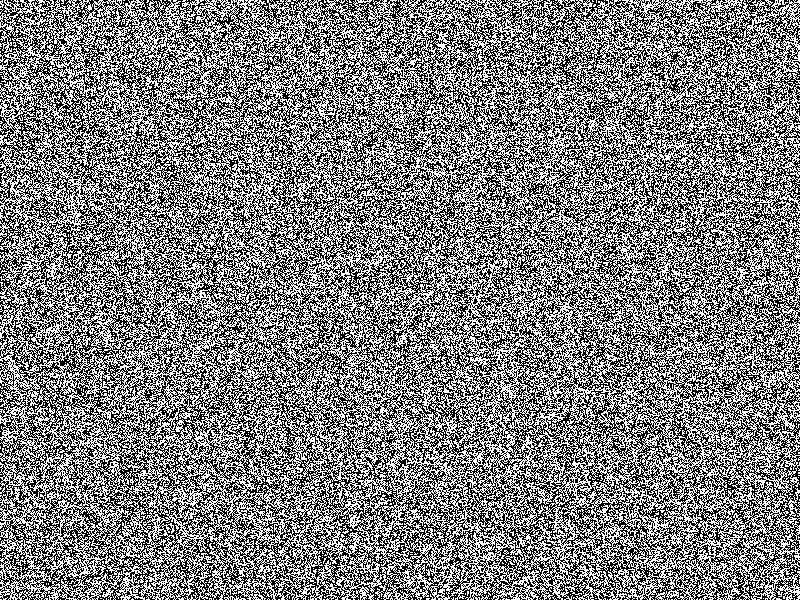
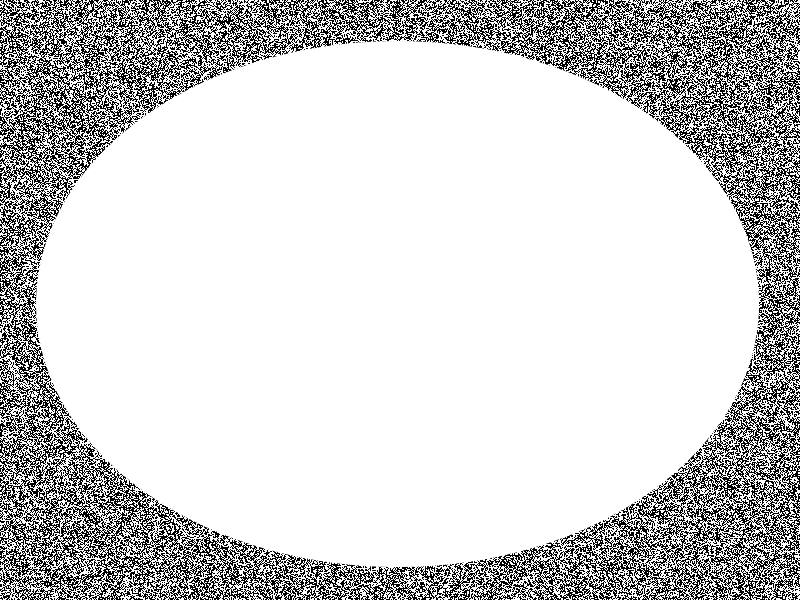
The static is a circle around the screen now

diff --git a/Assets/Scripts/UI/Eyes.cs b/Assets/Scripts/UI/Eyes.cs
@@ -147,7 +147,7 @@ namespace Unity.FPS.UI
 
             foreach (RaycastHit item in hits)
             {
-                if (item.transform.CompareTag("Wall")) return null;//1
+                if (item.transform.CompareTag("Opaque")) return null;//1
 
                 //2
 
